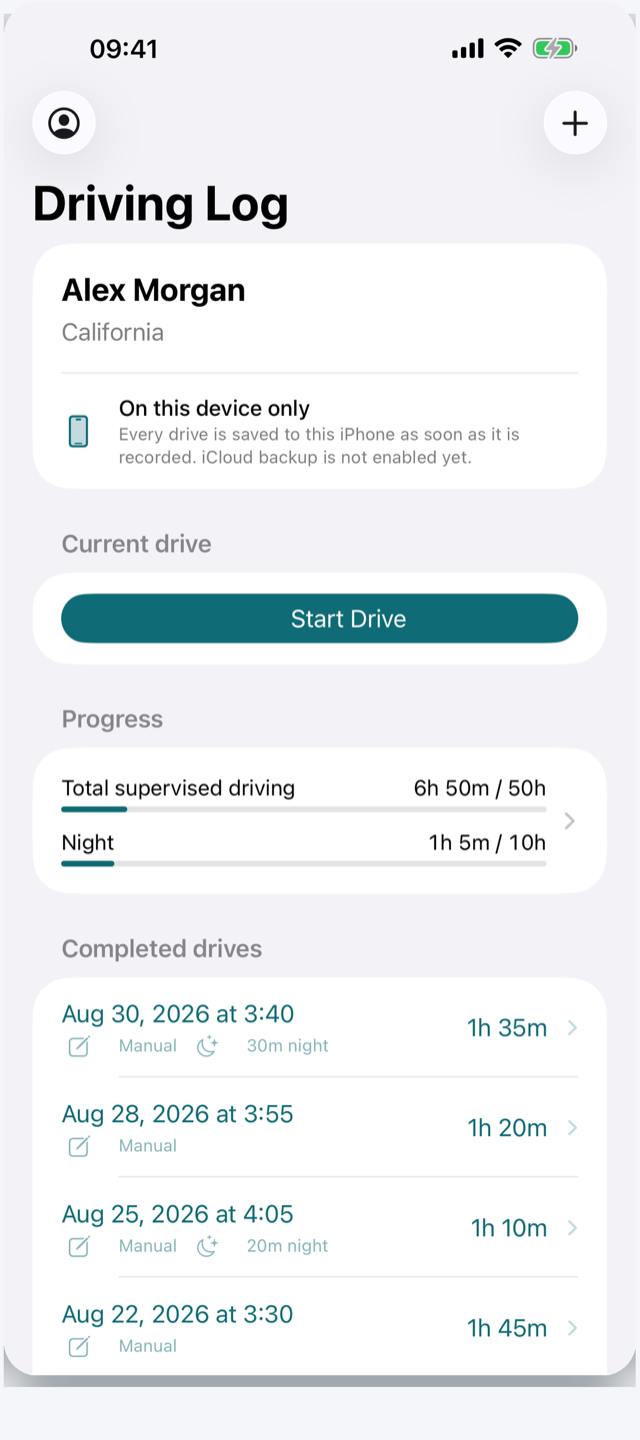
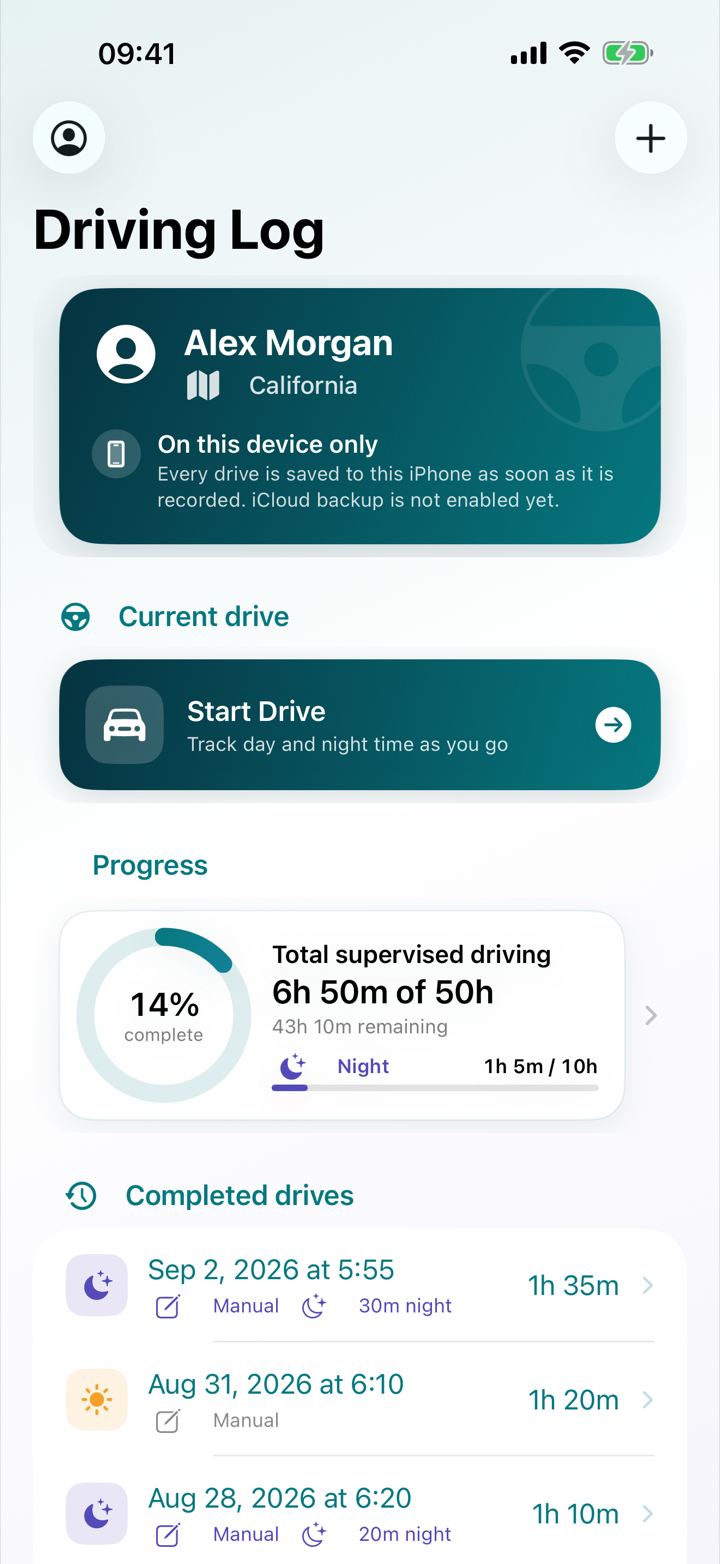
Refresh marketing site with new app visuals

diff --git a/site.css b/site.css
@@ -2,17 +2,20 @@
 
 :root {
   color-scheme: light;
-  --teal: #126e78;
-  --teal-dark: #0d5560;
-  --teal-soft: #e7f3f4;
-  --ink: #15252a;
+  --teal: #087b84;
+  --teal-dark: #063f4c;
+  --teal-soft: #dff4f3;
+  --sky: #2e94d1;
+  --night: #5549b7;
+  --day: #f4a229;
+  --ink: #10262d;
   --muted: #5b6b70;
   --line: #dbe6e8;
-  --bg: #f7fafa;
+  --bg: #f5f8fb;
   --card: #ffffff;
   --amber: #b8651b;
-  --radius: 18px;
-  --shadow: 0 10px 30px rgba(18, 110, 120, 0.10);
+  --radius: 22px;
+  --shadow: 0 24px 65px rgba(5, 59, 72, 0.15);
 }
 
 * { box-sizing: border-box; }
@@ -36,7 +39,7 @@ p { margin: 0 0 1em; }
 .narrow { max-width: 760px; }
 
 /* Top bar */
-.topbar { background: rgba(247, 250, 250, 0.92); backdrop-filter: saturate(160%) blur(10px); border-bottom: 1px solid var(--line); position: sticky; top: 0; z-index: 10; }
+.topbar { background: rgba(245, 248, 251, 0.88); backdrop-filter: saturate(160%) blur(16px); border-bottom: 1px solid rgba(219, 230, 232, .8); position: sticky; top: 0; z-index: 10; }
 .topbar .wrap { display: flex; align-items: center; gap: 18px; height: 64px; }
 .brand { display: flex; align-items: center; gap: 10px; font-weight: 700; text-decoration: none; color: var(--ink); }
 .brand img { width: 30px; height: 30px; border-radius: 8px; }
@@ -48,26 +51,42 @@ p { margin: 0 0 1em; }
 @media (max-width: 480px) { .topbar nav a:not(.btn) { display: none; } }
 
 /* Buttons */
-.btn { display: inline-flex; align-items: center; gap: 8px; background: var(--teal); color: #fff !important; padding: 13px 20px; border-radius: 12px; text-decoration: none; font-weight: 650; border: 1.5px solid var(--teal); transition: transform .12s ease, background .12s ease; }
+.btn { display: inline-flex; align-items: center; justify-content: center; gap: 8px; background: linear-gradient(135deg, var(--teal), var(--teal-dark)); color: #fff !important; padding: 13px 20px; border-radius: 14px; text-decoration: none; font-weight: 700; border: 1.5px solid var(--teal); box-shadow: 0 10px 24px rgba(8, 123, 132, .2); transition: transform .12s ease, box-shadow .12s ease; }
 .btn:hover { background: var(--teal-dark); border-color: var(--teal-dark); transform: translateY(-1px); }
-.btn.secondary { background: #fff; color: var(--teal) !important; }
+.btn.secondary { background: rgba(255,255,255,.82); color: var(--teal) !important; box-shadow: none; }
 .btn.secondary:hover { background: var(--teal-soft); }
 .btn-row { display: flex; flex-wrap: wrap; gap: 12px; margin: 22px 0 10px; }
 
 /* Hero */
-.hero { padding: 64px 0 40px; }
-.hero .wrap { display: grid; grid-template-columns: 1.15fr .85fr; gap: 48px; align-items: center; }
-.hero h1 { color: var(--teal-dark); }
+.hero { padding: 76px 0 58px; overflow: hidden; background: radial-gradient(circle at 82% 15%, rgba(85,73,183,.14), transparent 28%), radial-gradient(circle at 14% 5%, rgba(46,148,209,.14), transparent 28%), linear-gradient(155deg, #f8fbff 0%, #edf8f7 58%, #f3efff 100%); }
+.hero .wrap { display: grid; grid-template-columns: 1.03fr .97fr; gap: 54px; align-items: center; }
+.hero-copy { position: relative; z-index: 2; }
+.hero h1 { color: var(--teal-dark); font-size: clamp(2.55rem, 6.2vw, 4.25rem); max-width: 12ch; }
 .hero .lede { font-size: 1.22rem; color: var(--muted); max-width: 34ch; }
+.eyebrow { color: var(--teal); font-size: .78rem; font-weight: 800; letter-spacing: .12em; text-transform: uppercase; margin-bottom: 14px; }
 .badges { display: flex; flex-wrap: wrap; gap: 8px; margin: 18px 0 4px; padding: 0; list-style: none; }
 .badges li { background: var(--teal-soft); color: var(--teal-dark); font-weight: 600; font-size: .9rem; padding: 6px 12px; border-radius: 999px; }
-.phone { justify-self: center; width: min(320px, 80vw); border-radius: 40px; box-shadow: var(--shadow); border: 1px solid var(--line); overflow: hidden; background: #fff; }
+.phone { justify-self: center; width: min(320px, 80vw); border-radius: 46px; box-shadow: var(--shadow); border: 1px solid rgba(255,255,255,.9); overflow: hidden; background: #fff; }
 .phone img { display: block; width: 100%; height: auto; }
+.hero-visual { position: relative; min-height: 650px; display: grid; place-items: center; isolation: isolate; }
+.hero-visual .glow { position: absolute; width: 520px; height: 520px; border-radius: 50%; background: linear-gradient(135deg, rgba(8,123,132,.28), rgba(85,73,183,.2)); filter: blur(2px); z-index: -1; }
+.hero-visual .phone-main { width: min(330px, 73vw); transform: rotate(-2.5deg) translateX(-40px); }
+.hero-visual .phone-float { position: absolute; width: 205px; right: -6px; bottom: 18px; transform: rotate(5deg); box-shadow: 0 30px 70px rgba(32, 25, 82, .24); }
+.trust-strip { background: var(--teal-dark); color: white; }
+.trust-strip .wrap { display: grid; grid-template-columns: repeat(4, 1fr); gap: 1px; background: rgba(255,255,255,.12); padding: 0; }
+.trust-strip .wrap > div { padding: 22px; background: var(--teal-dark); display: flex; flex-direction: column; align-items: center; text-align: center; }
+.trust-strip strong { font-size: 1.65rem; line-height: 1; }
+.trust-strip span { font-size: .82rem; opacity: .76; margin-top: 6px; }
 @media (max-width: 820px) {
   .hero { padding-top: 40px; }
   .hero .wrap { grid-template-columns: 1fr; }
+  .hero h1 { max-width: 14ch; }
+  .hero-visual { min-height: 550px; }
+  .hero-visual .phone-main { transform: rotate(-2deg) translateX(-24px); }
+  .hero-visual .phone-float { right: 5%; width: 175px; }
   .phone { width: min(260px, 70vw); }
 }
+@media (max-width: 560px) { .trust-strip .wrap { grid-template-columns: repeat(2, 1fr); } }
 
 /* Sections */
 .section { padding: 56px 0; }
@@ -92,6 +111,28 @@ p { margin: 0 0 1em; }
 .checks li { position: relative; padding-left: 30px; margin: 10px 0; }
 .checks li::before { content: ""; position: absolute; left: 0; top: 4px; width: 18px; height: 18px; border-radius: 50%; background: var(--teal-soft); border: 1.5px solid var(--teal); }
 .checks li::after { content: ""; position: absolute; left: 6px; top: 8px; width: 5px; height: 9px; border: solid var(--teal); border-width: 0 2px 2px 0; transform: rotate(45deg); }
+
+/* Product tour */
+.product-tour { background: linear-gradient(180deg, #f5f8fb, #eef8f7); overflow: hidden; }
+.product-tour .section-head { max-width: 720px; }
+.screen-grid { display: grid; grid-template-columns: repeat(3, 1fr); gap: 18px; align-items: end; }
+.screen-card { min-width: 0; border-radius: 28px; padding: 24px 18px 0; overflow: hidden; border: 1px solid rgba(255,255,255,.9); background: linear-gradient(155deg, #fff4dc, #fff); box-shadow: 0 18px 45px rgba(20,50,60,.08); }
+.screen-card.night { background: linear-gradient(155deg, #e9e7ff, #fff); }
+.screen-card.pro-card { background: linear-gradient(155deg, #dcf4f1, #fff); }
+.screen-card > div:first-child { min-height: 180px; }
+.screen-card span { display: inline-grid; place-items: center; width: 36px; height: 36px; border-radius: 11px; background: rgba(244,162,41,.17); color: #a45d00; font-size: .78rem; font-weight: 800; }
+.screen-card.night span { background: rgba(85,73,183,.14); color: var(--night); }
+.screen-card.pro-card span { background: rgba(8,123,132,.14); color: var(--teal); }
+.screen-card h3 { margin-top: 16px; font-size: 1.25rem; }
+.screen-card p { color: var(--muted); font-size: .92rem; line-height: 1.45; }
+.screen-card .phone { width: 100%; max-width: 285px; border-radius: 38px 38px 0 0; border-bottom: 0; box-shadow: 0 16px 35px rgba(14, 42, 52, .14); }
+@media (max-width: 820px) { .screen-grid { grid-template-columns: 1fr; } .screen-card { display: grid; grid-template-columns: 1fr 210px; gap: 12px; align-items: end; } .screen-card > div:first-child { min-height: 0; align-self: center; } }
+@media (max-width: 540px) { .screen-card { grid-template-columns: 1fr; } .screen-card .phone { max-width: 250px; } }
+
+@media (prefers-reduced-motion: reduce) {
+  html { scroll-behavior: auto; }
+  .btn { transition: none; }
+}
 
 /* Pricing */
 .pricing { display: grid; grid-template-columns: repeat(auto-fit, minmax(280px, 1fr)); gap: 16px; }

diff --git a/index.html b/index.html
@@ -51,7 +51,8 @@
   <main>
   <section class="hero">
     <div class="wrap">
-      <div>
+      <div class="hero-copy">
+        <p class="eyebrow">Built for learner drivers and their families</p>
         <h1>Supervised driving hours, without the guesswork.</h1>
         <p class="lede">Log every practice drive, see how your time counts under the rules configured for your state, and print a supporting record when it's time to apply.</p>
         <ul class="badges">
@@ -65,7 +66,20 @@
           <a class="btn secondary" href="/guides/">Check your state's rules</a>
         </div>
       </div>
-      <div class="phone"><img src="/assets/dashboard.png" alt="Driving Log dashboard showing a learner's progress toward 50 supervised hours" width="640" height="1440"></div>
+      <div class="hero-visual" aria-label="Driving Log app previews">
+        <div class="glow" aria-hidden="true"></div>
+        <div class="phone phone-main"><picture><source srcset="/assets/dashboard.webp" type="image/webp"><img src="/assets/dashboard.png" alt="Driving Log dashboard showing a learner's supervised-driving progress" width="720" height="1564"></picture></div>
+        <div class="phone phone-float"><picture><source srcset="/assets/pro.webp" type="image/webp"><img src="/assets/pro.png" alt="Driving Log Pro screen showing the one-time purchase and included family features" width="720" height="1564"></picture></div>
+      </div>
+    </div>
+  </section>
+
+  <section class="trust-strip" aria-label="Key app facts">
+    <div class="wrap">
+      <div><strong>51</strong><span>jurisdictions</span></div>
+      <div><strong>$0</strong><span>for core logging</span></div>
+      <div><strong>0</strong><span>ads or trackers</span></div>
+      <div><strong>1×</strong><span>optional Pro purchase</span></div>
     </div>
   </section>
 
@@ -85,7 +99,7 @@
 
   <section class="section alt">
     <div class="wrap split">
-      <div class="phone"><img src="/assets/progress.png" alt="Progress screen listing logged time, counted time and remaining requirements for California" width="640" height="1440" loading="lazy"></div>
+      <div class="phone"><picture><source srcset="/assets/progress.webp" type="image/webp"><img src="/assets/progress.png" alt="Progress screen listing logged time, counted time and remaining requirements for California" width="720" height="1564" loading="lazy"></picture></div>
       <div>
         <h2>Know what may count before you apply</h2>
         <p class="muted">Some states cap how many hours count per day or per week. Others need a minimum number of practice days, or hours in particular conditions. Driving Log applies the configured rules as you go, helping you spot caps, remaining requirements and possible gaps before you apply.</p>
@@ -95,6 +109,30 @@
           <li>Permit holding period counted from the date it was issued</li>
           <li>Every rule linked to the official state page it came from</li>
         </ul>
+      </div>
+    </div>
+  </section>
+
+  <section class="section product-tour" aria-labelledby="inside-app">
+    <div class="wrap">
+      <div class="section-head">
+        <p class="eyebrow">Designed for the whole journey</p>
+        <h2 id="inside-app">Clear at a glance. Detailed when it matters.</h2>
+        <p>Start a drive in one tap, add the details your state needs, and always know what remains.</p>
+      </div>
+      <div class="screen-grid">
+        <article class="screen-card day">
+          <div><span>01</span><h3>Log the drive</h3><p>Choose exact day and night minutes, road conditions and instruction details.</p></div>
+          <div class="phone"><picture><source srcset="/assets/add-drive.webp" type="image/webp"><img src="/assets/add-drive.png" alt="Add Drive screen with time, night-driving and road-condition controls" width="720" height="1564" loading="lazy"></picture></div>
+        </article>
+        <article class="screen-card night">
+          <div><span>02</span><h3>See real progress</h3><p>Logged time and state-counted time stay separate, with remaining requirements made visible.</p></div>
+          <div class="phone"><picture><source srcset="/assets/progress.webp" type="image/webp"><img src="/assets/progress.png" alt="State progress screen with counted time and remaining requirements" width="720" height="1564" loading="lazy"></picture></div>
+        </article>
+        <article class="screen-card pro-card">
+          <div><span>03</span><h3>Bring the family</h3><p>Pro adds separate learners, private collaboration, CSV import and supported worksheets.</p></div>
+          <div class="phone"><picture><source srcset="/assets/pro.webp" type="image/webp"><img src="/assets/pro.png" alt="Driving Log Pro benefits and one-time purchase screen" width="720" height="1564" loading="lazy"></picture></div>
+        </article>
       </div>
     </div>
   </section>

diff --git a/test_generate_pages.py b/test_generate_pages.py
@@ -137,6 +137,24 @@ class GuideGeneratorTests(unittest.TestCase):
         self.assertNotIn("If the other app can export a CSV file", homepage)
         self.assertIn("supported rows from a CSV file", homepage)
 
+    def test_homepage_product_tour_uses_real_local_app_captures(self):
+        repo = pathlib.Path(__file__).parent
+        homepage = (repo / "index.html").read_text(encoding="utf-8")
+        expected_assets = {
+            "dashboard.png",
+            "progress.png",
+            "add-drive.png",
+            "pro.png",
+        }
+        for asset in expected_assets:
+            self.assertIn(f'/assets/{asset}', homepage)
+            self.assertTrue((repo / "assets" / asset).is_file())
+            webp_asset = pathlib.Path(asset).with_suffix(".webp")
+            self.assertIn(f'/assets/{webp_asset}', homepage)
+            self.assertTrue((repo / "assets" / webp_asset).is_file())
+        self.assertIn('aria-labelledby="inside-app"', homepage)
+        self.assertEqual(homepage.count('class="screen-card'), 3)
+
     def test_unverified_state_blocks_build(self):
         data = copy.deepcopy(self.raw)
         next(state for state in data["states"] if state["code"] == "CA")["status"] = "draft"

diff --git a/README.md b/README.md
@@ -32,3 +32,19 @@ fields that must never be published.
   campaign after at least five individual Apple Accounts install through its link.
 - The Android waitlist is a mailto to support@acsimsek.com by design: the site itself collects
   nothing, so the privacy page stays honest. Waitlist volume is measured in the inbox.
+
+## Refreshing product screenshots
+
+The homepage uses real simulator captures from the iOS repository, not hand-built mockups. After
+an app UI change, run `./scripts/capture-app-store-screenshots.sh` in `../driving-log-ios`, then
+replace and resize these source files to 720 pixels wide and generate matching WebP files:
+
+- `01-dashboard.png` -> `assets/dashboard.png`
+- `02-progress-details.png` -> `assets/progress.png`
+- `03-driving-log-pro.png` -> `assets/pro.png`
+- `04-add-a-drive.png` -> `assets/add-drive.png`
+
+The PNG sources live under
+`../driving-log-ios/app-store/screenshots/raw/en-US/6.9-inch/`. Keep the homepage image dimensions
+and alt text in sync when the captures change, compress each PNG to the same-named `.webp` file,
+then run the site tests before publishing. The PNG remains the compatibility fallback.
